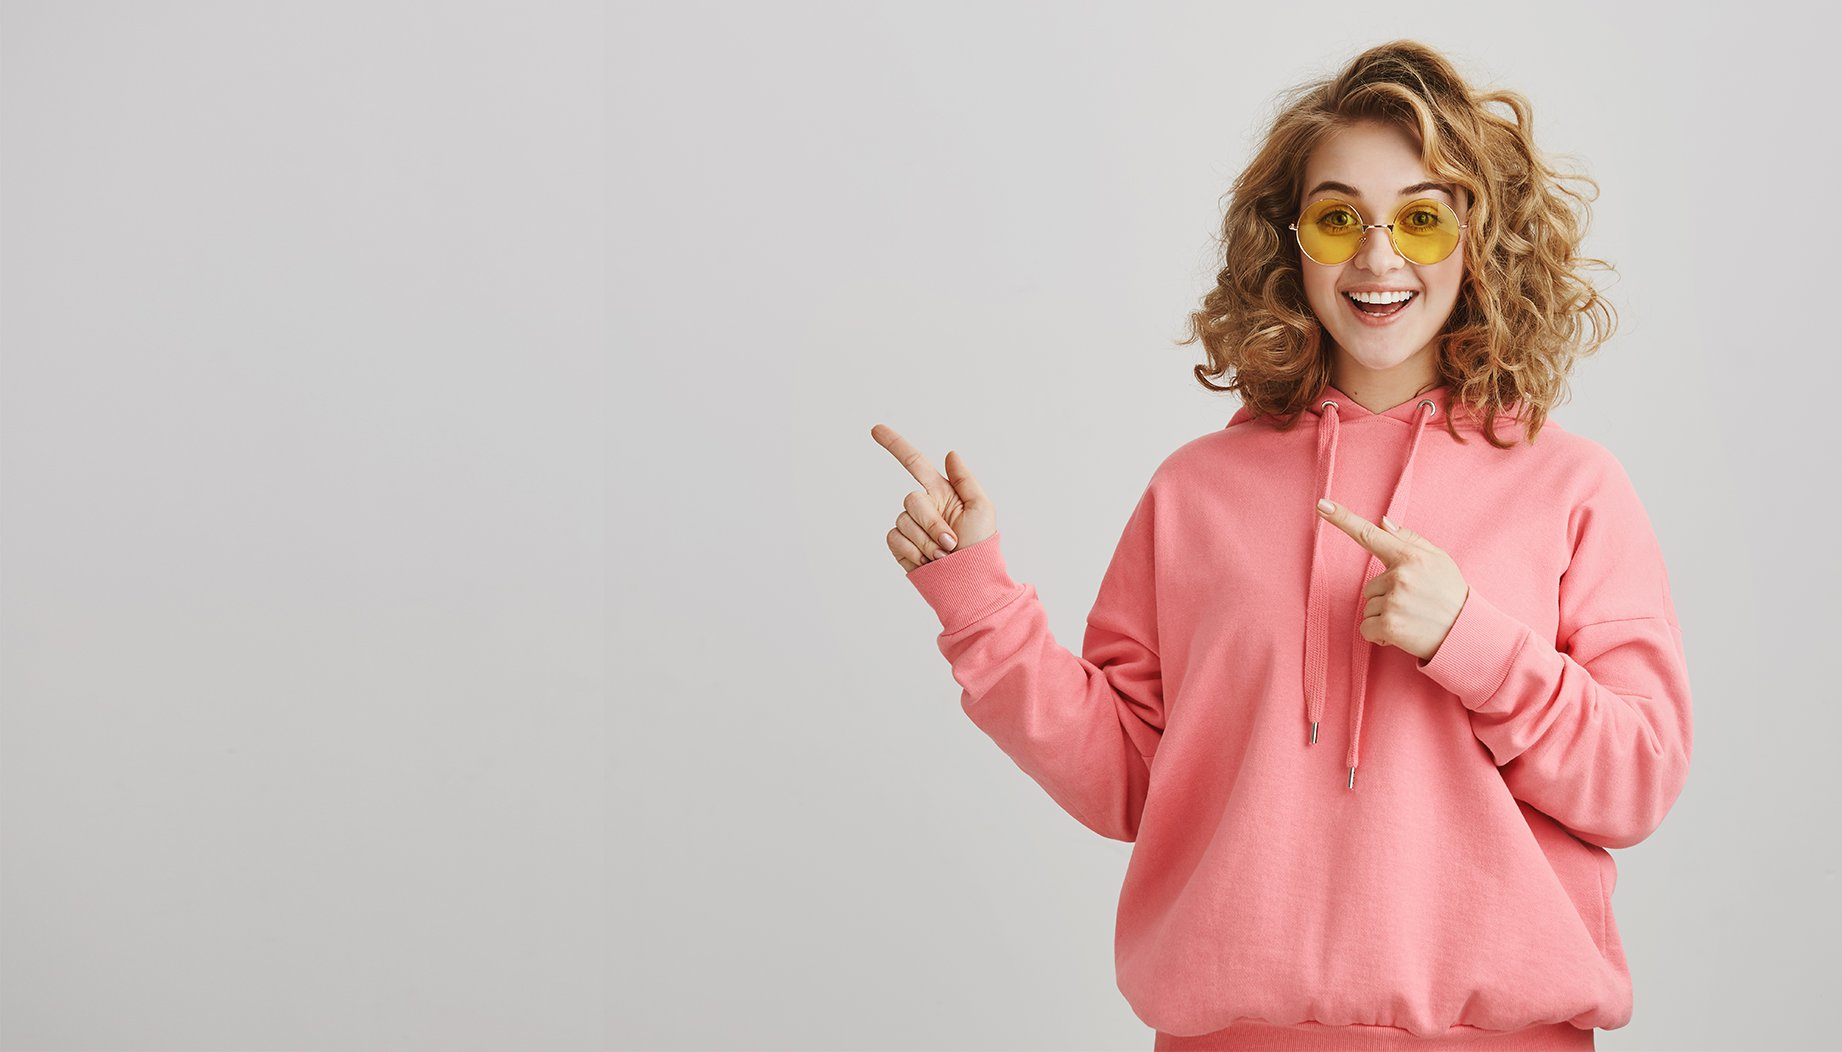
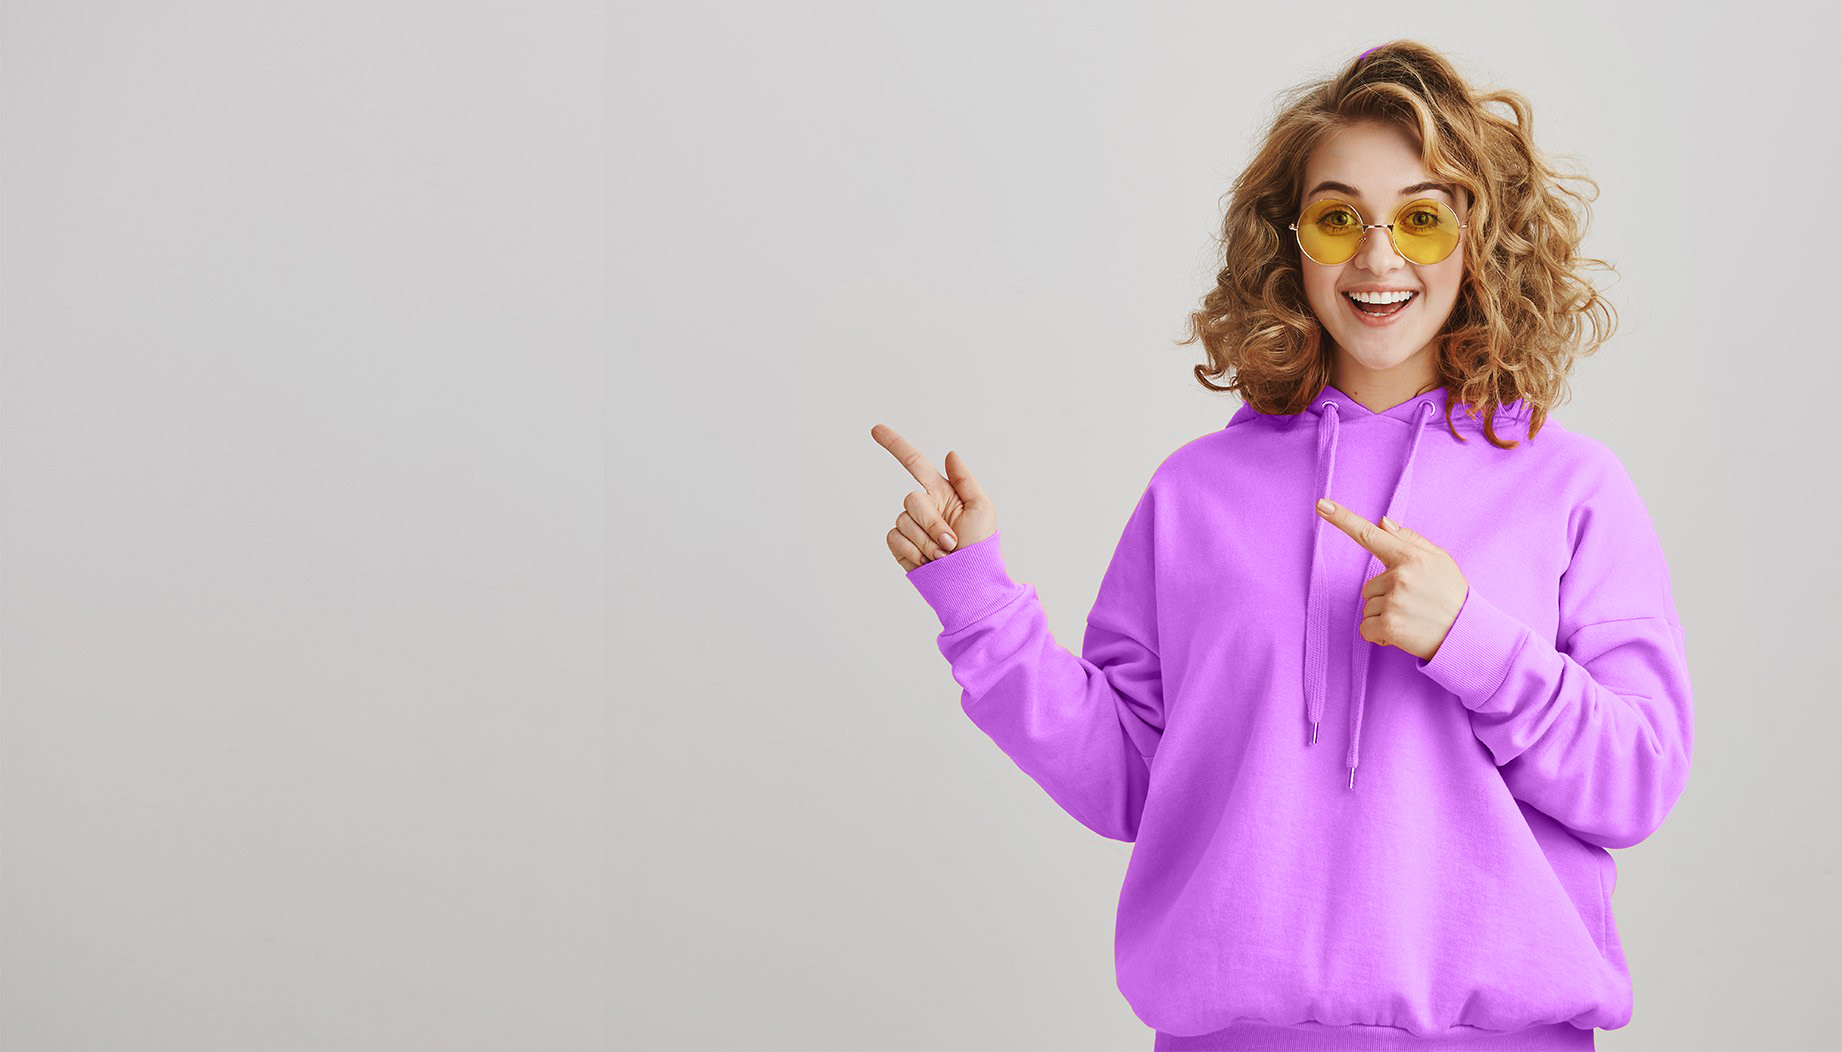
Main | Colour is fixed

Changed region(s): [[0.4951, 0.365, 0.9283, 1.0]]

diff --git a/css/style.css b/css/style.css
@@ -64,12 +64,12 @@ h2 {
     display: block;
     width: 70px;
     height: 5px;
-    background: #f7444e;
+    background: #9f41bb;
     margin: 10px auto 10px;
 }
 
 .heading_container h2 span {
-  color: #f7444e;
+  color: #9f41bb;
 }
 
 .heading_container p {
@@ -167,11 +167,11 @@ a:focus {
 }
 
 .custom_nav-container .navbar-nav .nav-item:hover .nav-link, .custom_nav-container .navbar-nav .nav-item.active .nav-link {
-  color: #f7444e;
+  color: #9f41bb;
 }
 
 .custom_nav-container .navbar-nav .nav-item:hover .nav-link svg, .custom_nav-container .navbar-nav .nav-item.active .nav-link svg {
-  fill: #f7444e;
+  fill: #9f41bb;
 }
 
 .custom_nav-container .nav_search-btn {
@@ -183,7 +183,7 @@ a:focus {
 }
 
 .custom_nav-container .nav_search-btn:hover {
-  color: #f7444e;
+  color: #9f41bb;
 }
 
 .custom_nav-container .navbar-toggler {
@@ -280,7 +280,7 @@ a:focus {
 }
 
 .slider_section .detail-box h1 span {
-  color: #f7444e;
+  color: #9f41bb;
 }
 
 .slider_section .detail-box p {
@@ -292,8 +292,8 @@ a:focus {
 .slider_section .detail-box a {
     display: inline-block;
     padding: 12px 45px;
-    background-color: #f7444e;
-    border: 1px solid #f7444e;
+    background-color: #9f41bb;
+    border: 1px solid #9f41bb;
     color: #ffffff;
     border-radius: 0;
     -webkit-transition: all 0.3s;
@@ -304,7 +304,7 @@ a:focus {
 
 .slider_section .detail-box a:hover {
   background-color: transparent;
-  color: #f7444e;
+  color: #9f41bb;
 }
 
 .slider_section .img-box img {
@@ -334,7 +334,7 @@ a:focus {
 .slider_section .carousel-indicators li.active {
   width: 20px;
   height: 20px;
-  background-color: #f7444e;
+  background-color: #9f41bb;
 }
 
 .slider_bg_box {
@@ -476,14 +476,14 @@ a:focus {
 }
 
 .product_section .options .option1 {
-  background-color: #f7444e;
-  border: 1px solid #f7444e;
+  background-color: #9f41bb;
+  border: 1px solid #9f41bb;
   color: #ffffff;
 }
 
 .product_section .options .option1:hover {
   background-color: transparent;
-  color: #f7444e;
+  color: #9f41bb;
 }
 
 .product_section .options .option2 {
@@ -510,8 +510,8 @@ a:focus {
 .product_section .btn-box a {
   display: inline-block;
   padding: 10px 40px;
-  background-color: #f7444e;
-  border: 1px solid #f7444e;
+  background-color: #9f41bb;
+  border: 1px solid #9f41bb;
   color: #ffffff;
   border-radius: 0;
   -webkit-transition: all 0.3s;
@@ -520,7 +520,7 @@ a:focus {
 
 .product_section .btn-box a:hover {
   background-color: transparent;
-  color: #f7444e;
+  color: #9f41bb;
 }
 
 .arrival_section .heading_container {
@@ -554,8 +554,8 @@ a:focus {
 .arrival_section a {
   display: inline-block;
   padding: 10px 45px;
-  background-color: #f7444e;
-  border: 1px solid #f7444e;
+  background-color: #9f41bb;
+  border: 1px solid #9f41bb;
   color: #ffffff;
   border-radius: 0;
   -webkit-transition: all 0.3s;
@@ -564,7 +564,7 @@ a:focus {
 
 .arrival_section a:hover {
   background-color: transparent;
-  color: #f7444e;
+  color: #9f41bb;
 }
 
 .why_section .box {
@@ -659,8 +659,8 @@ a:focus {
 .subscribe_section .subscribe_form form button {
   display: inline-block;
   padding: 10px 45px;
-  background-color: #f7444e;
-  border: 1px solid #f7444e;
+  background-color: #9f41bb;
+  border: 1px solid #9f41bb;
   color: #ffffff;
   border-radius: 35px;
   -webkit-transition: all 0.3s;
@@ -674,7 +674,7 @@ a:focus {
 
 .subscribe_section .subscribe_form form button:hover {
   background-color: transparent;
-  color: #f7444e;
+  color: #9f41bb;
 }
 
 .client_section .box {
@@ -771,7 +771,7 @@ a:focus {
   height: 50px;
   opacity: 1;
   color: #ffffff;
-  background-color: #f7444e;
+  background-color: #9f41bb;
   border-radius: 100%;
 }
 
@@ -836,7 +836,7 @@ a:focus {
 }
 
 .footer_section .footer_contact .contact_link_box a:hover {
-  color: #f7444e;
+  color: #9f41bb;
 }
 
 .footer_section .footer-logo {
@@ -878,7 +878,7 @@ a:focus {
 }
 
 .footer_section .footer_social a:hover {
-  color: #f7444e;
+  color: #9f41bb;
 }
 
 .footer_section .map_container {
@@ -956,11 +956,11 @@ li.nav-item ul li a {
 }
 
 li.nav-item ul li a:hover, li.nav-item ul li a:focus {
-    color: #f7444e;
+    color: #9f41bb;
 }
 
 .inner_page_head {
-    background: #f7444e;
+    background: #9f41bb;
     text-align: center;
     color: #fff;
     padding-top: 50px;
@@ -1044,7 +1044,7 @@ div.form_sub .field input[type="email"], div.form_sub .field input[type="email"]
 .form_sub input[type="email"] + input[type="submit"] {
     position: absolute;
     right: 0;
-    background: #f7444e;
+    background: #9f41bb;
     color: #fff;
     border: none;
     top: 0px;
@@ -1094,7 +1094,7 @@ form input[type="submit"] {
 
 form input[type="submit"]:hover,
 form input[type="submit"]:focus {
-    background: #f7444e;
+    background: #9f41bb;
     color: #fff;
 }
 
@@ -1115,7 +1115,7 @@ form input[type="submit"]:focus {
 
 .cpy_ p a {
     margin: 0;
-    color: #f7444e;
+    color: #9f41bb;
     font-size: 15px;
     font-weight: 400;
 }
